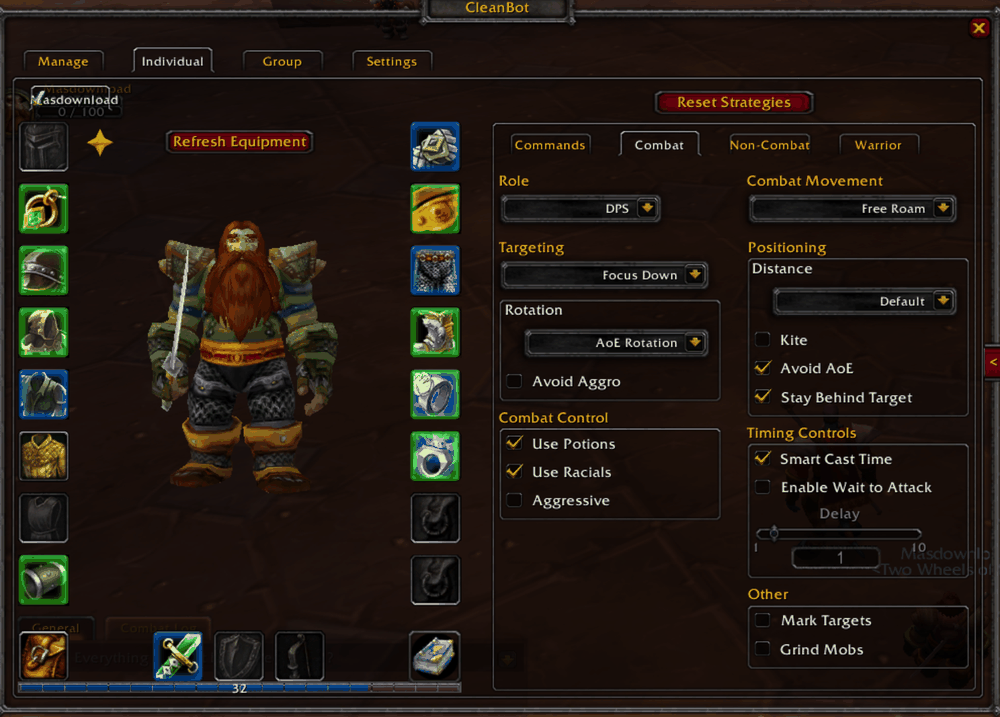
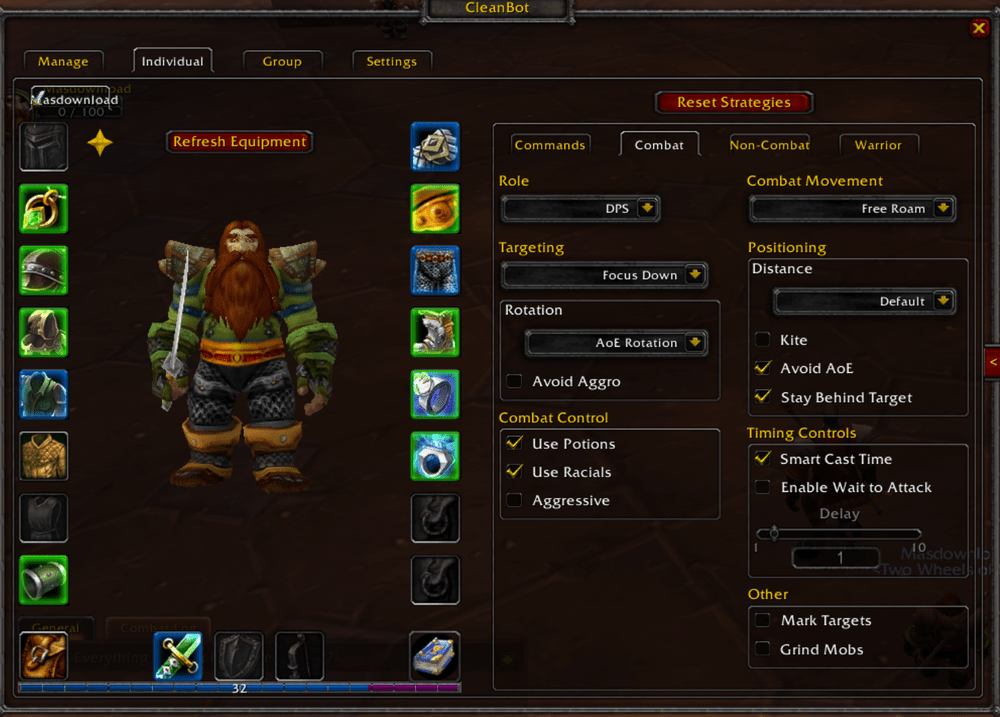
README: add Quest Log screenshot; re-encode screenshots without colour loss
Add the bot Quest Log screenshot (docs/images/quest-log.png) in place of the old
user-attachments image; the Mini Action Bar keeps its existing image.

The previous screenshots were reduced to 256 colours with Pillow's median-cut
quantizer, which dropped small saturated colours (the inventory's red gem, purple
item borders, the rested-XP segment, green completed-quest text). All images are
now re-encoded from the same crops with libimagequant (mean error ~1/255 per
channel); total 1.6 MB.

diff --git a/README.md b/README.md
@@ -38,7 +38,7 @@ A clean interface to manage Playerbots on WotLK 3.3.5a Servers. No more complex 
     - Read quest text and requirements directly for any quest you both share
 - Abandon Bot Quests
 
-<img width="700" alt="image" src="https://github.com/user-attachments/assets/083d79cc-d36a-443e-bc55-7d21d037e57f" />
+<img width="700" alt="Bot quest log" src="docs/images/quest-log.png" />
 
 # Group Tab
 - Multiselect groups and bots using the standard windows shortcuts
